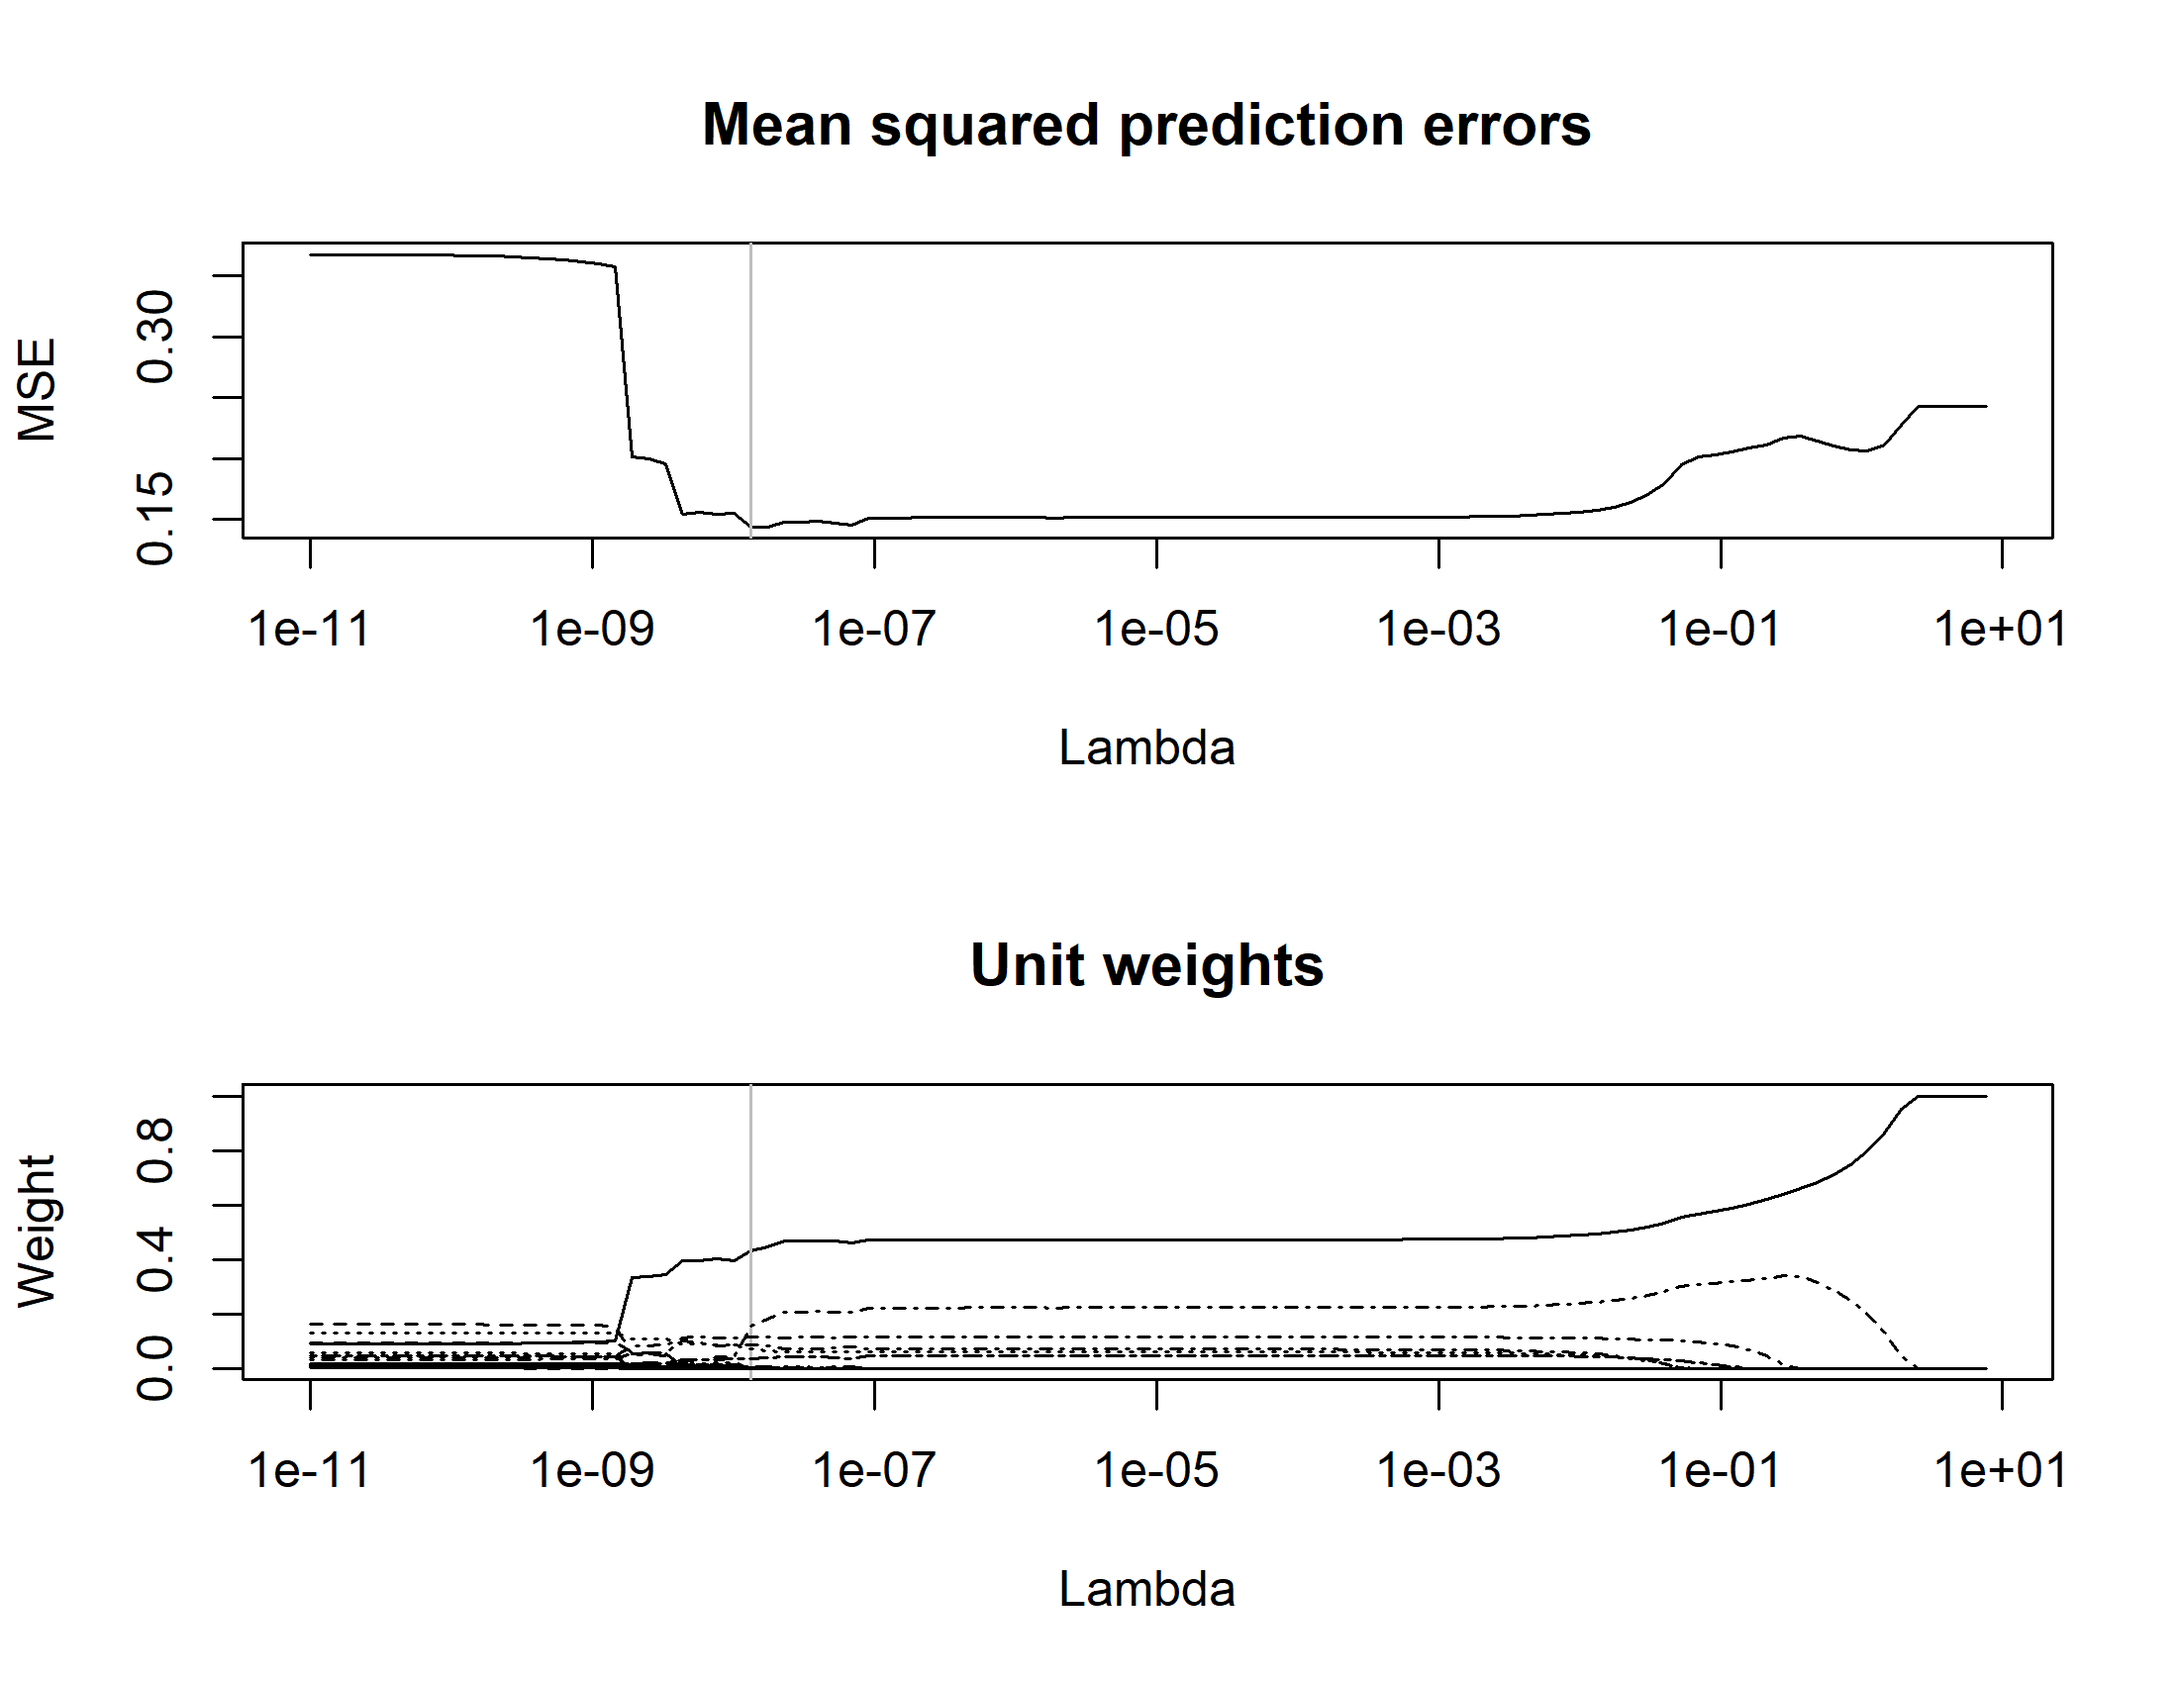
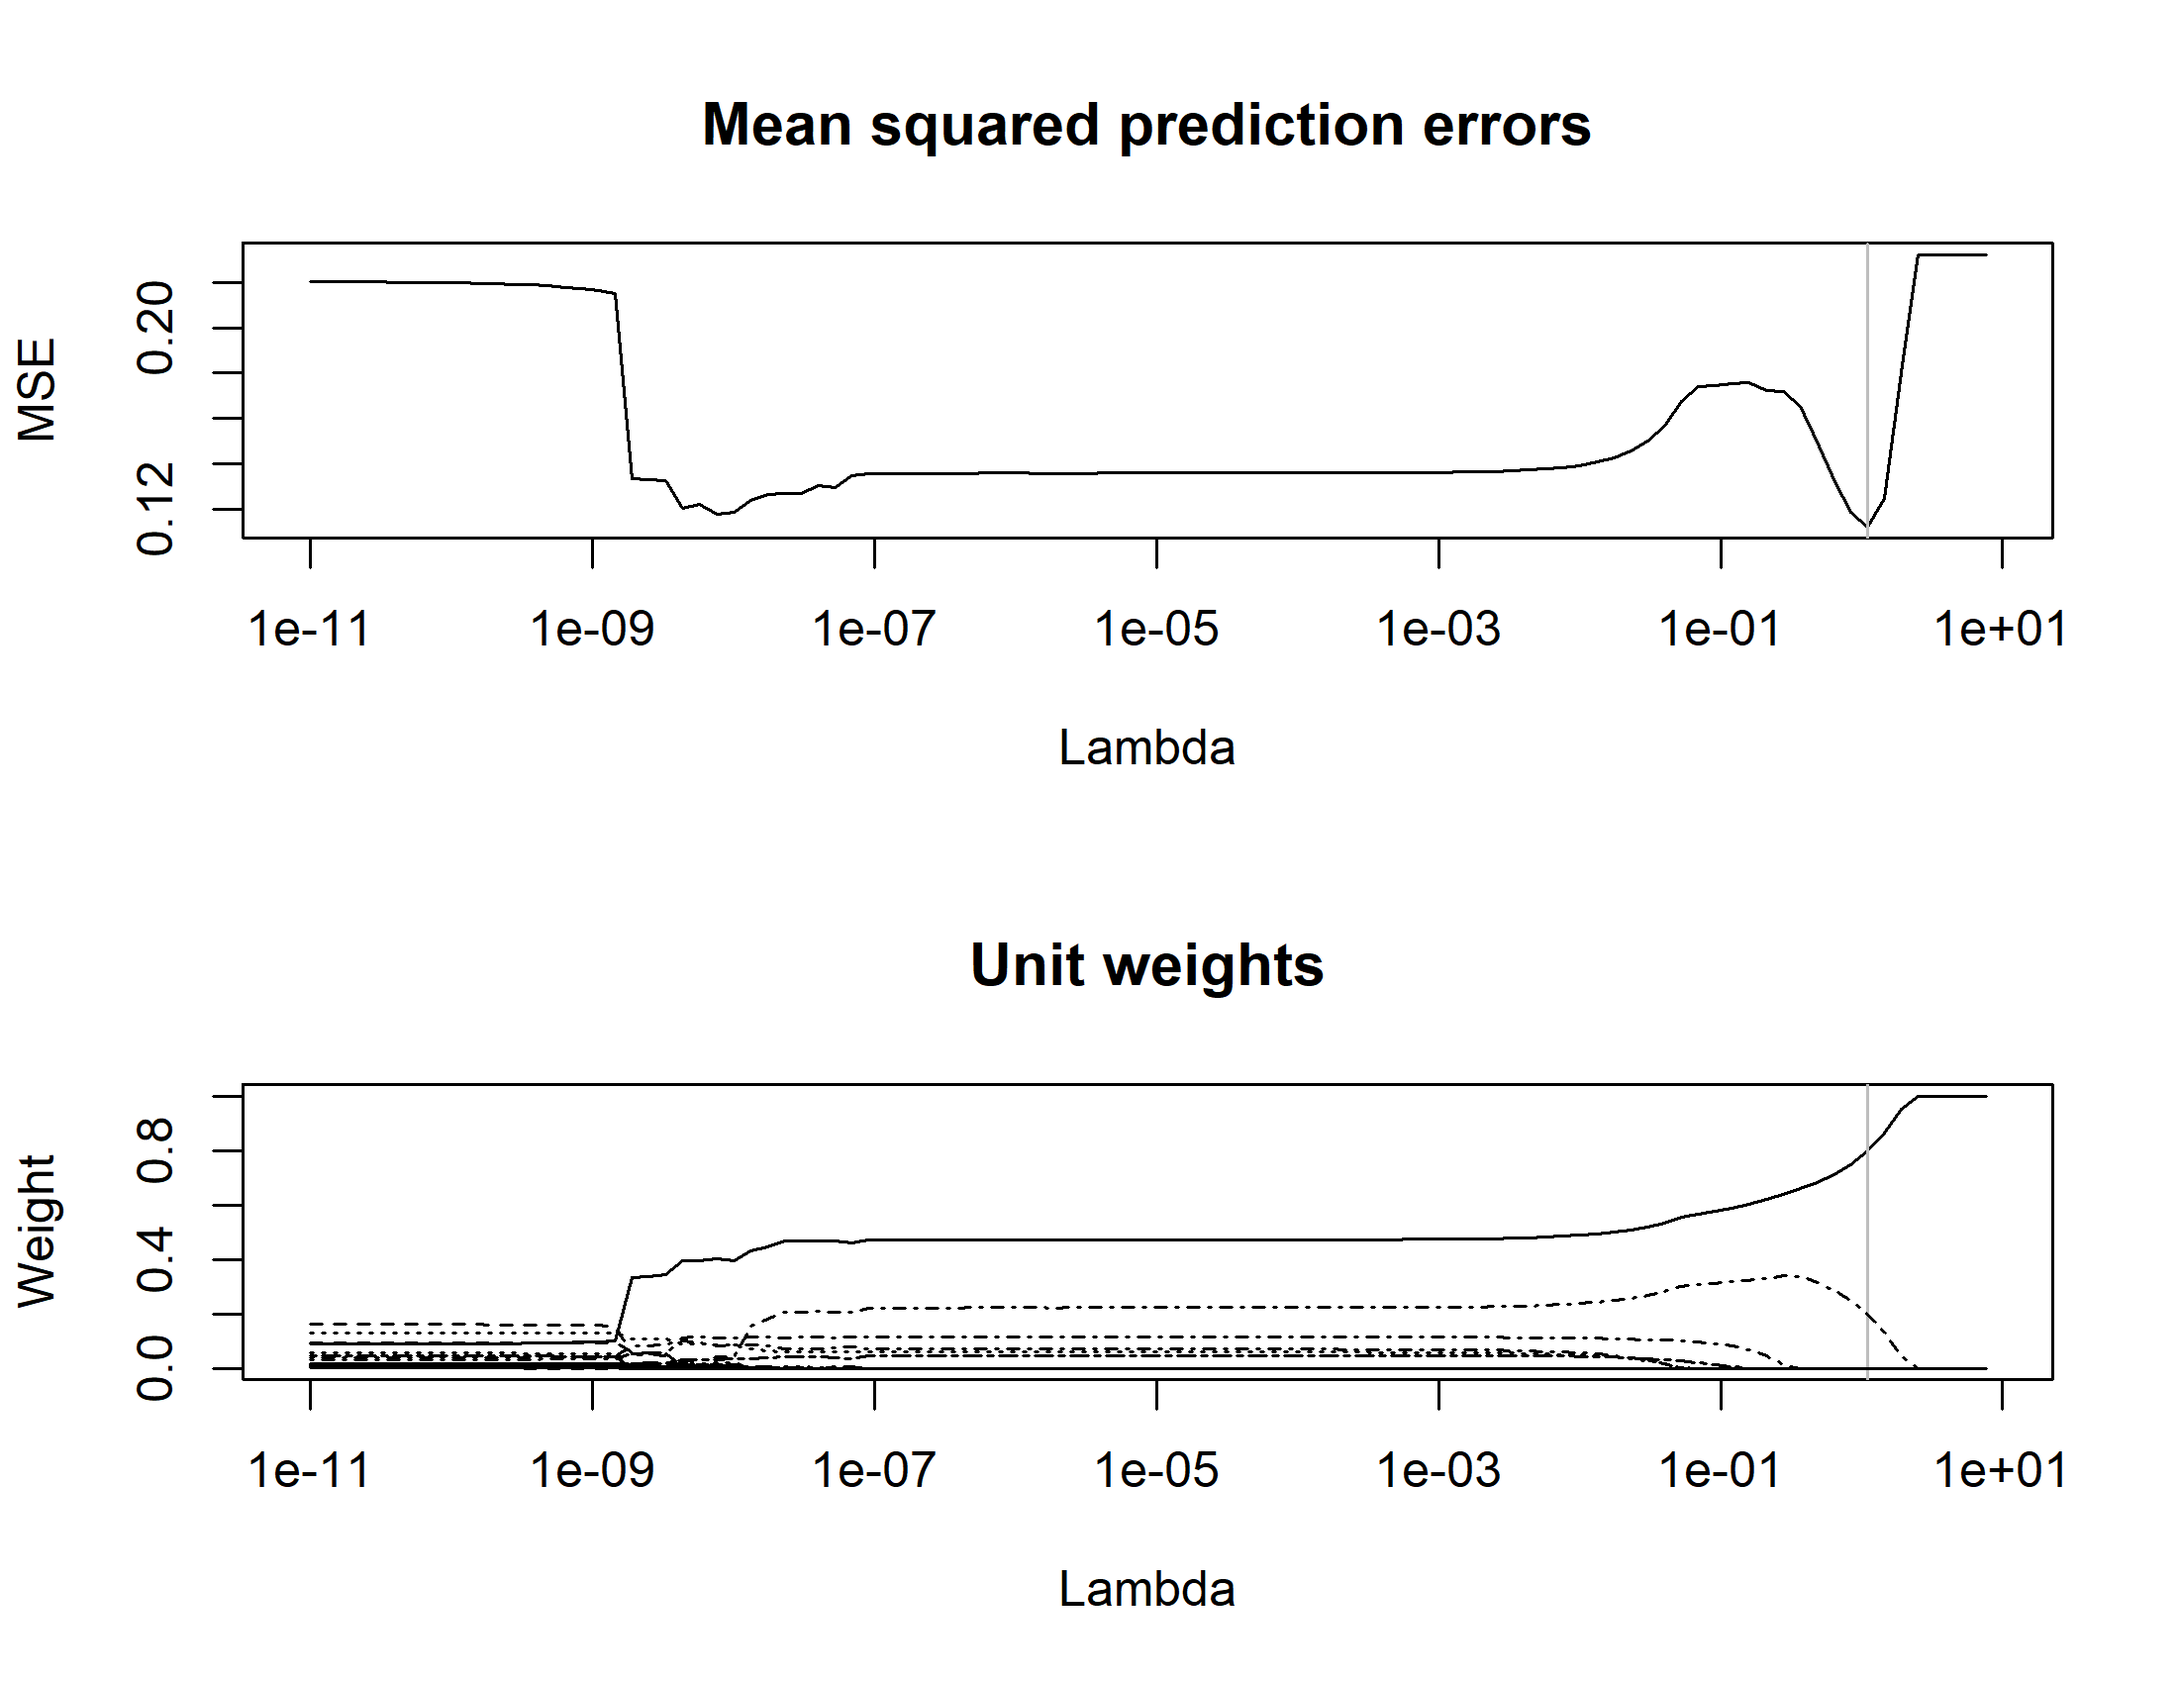
Add autoregression term to data simulation

diff --git a/README.md b/README.md
@@ -72,7 +72,7 @@ library(pensynth)
 set.seed(45)
 
 # Generate some data with a 0.8SD effect
-dat <- simulate_data(treatment_effect = 0.8)
+dat <- simulate_data(treatment_effect = 1)
 ```
 ![dataplot](img/dataplot.png)
 
@@ -97,7 +97,7 @@ Y1_synth <- predict(
   newdata = dat$Y0 # Donor units post-intervention outcome
 )
 mean(dat$Y1 - Y1_synth)
-#> [1] 0.8863562
+#> [1] 1.114145
 ```
 
 We can use a placebo test (a kind of permutation test) to compare the effect to a reference distribution. This applies the penalized synthetic control method to each of the donors, including hold-out validation, and then computes the estimated treatment effect.
@@ -106,7 +106,7 @@ We can use a placebo test (a kind of permutation test) to compare the effect to 
 # Perform a placebo permutation test
 fit_test <- placebo_test(fit, dat$Y1, dat$Y0)
 plot(fit_test)
-abline(h = 0.8, lty = 2)
+abline(h = 1, lty = 2)
 legend("bottomright", lty = 2, legend = "True effect")
 ```
 ![testplot](img/testplot.png)
